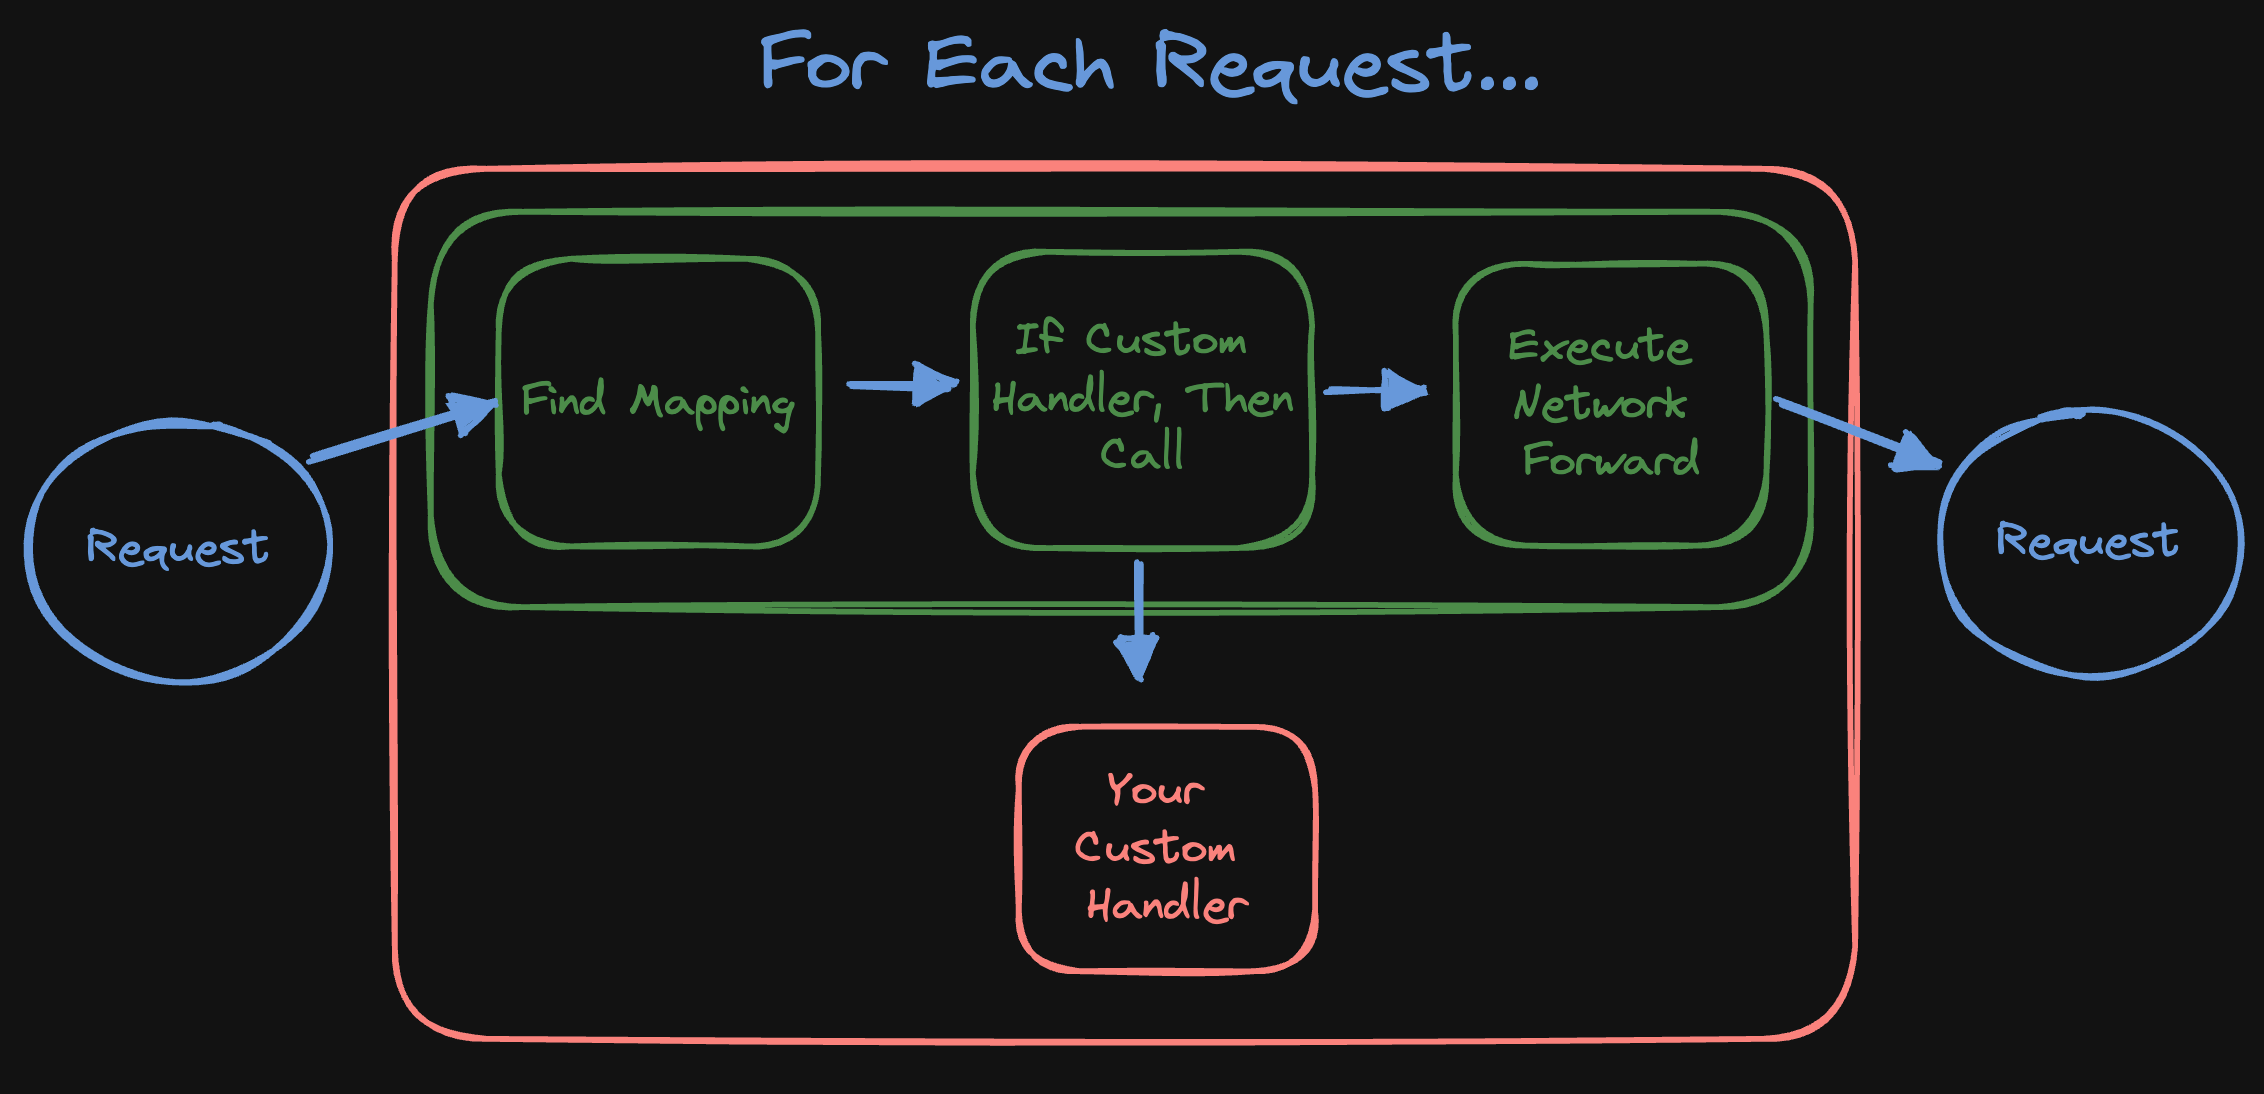
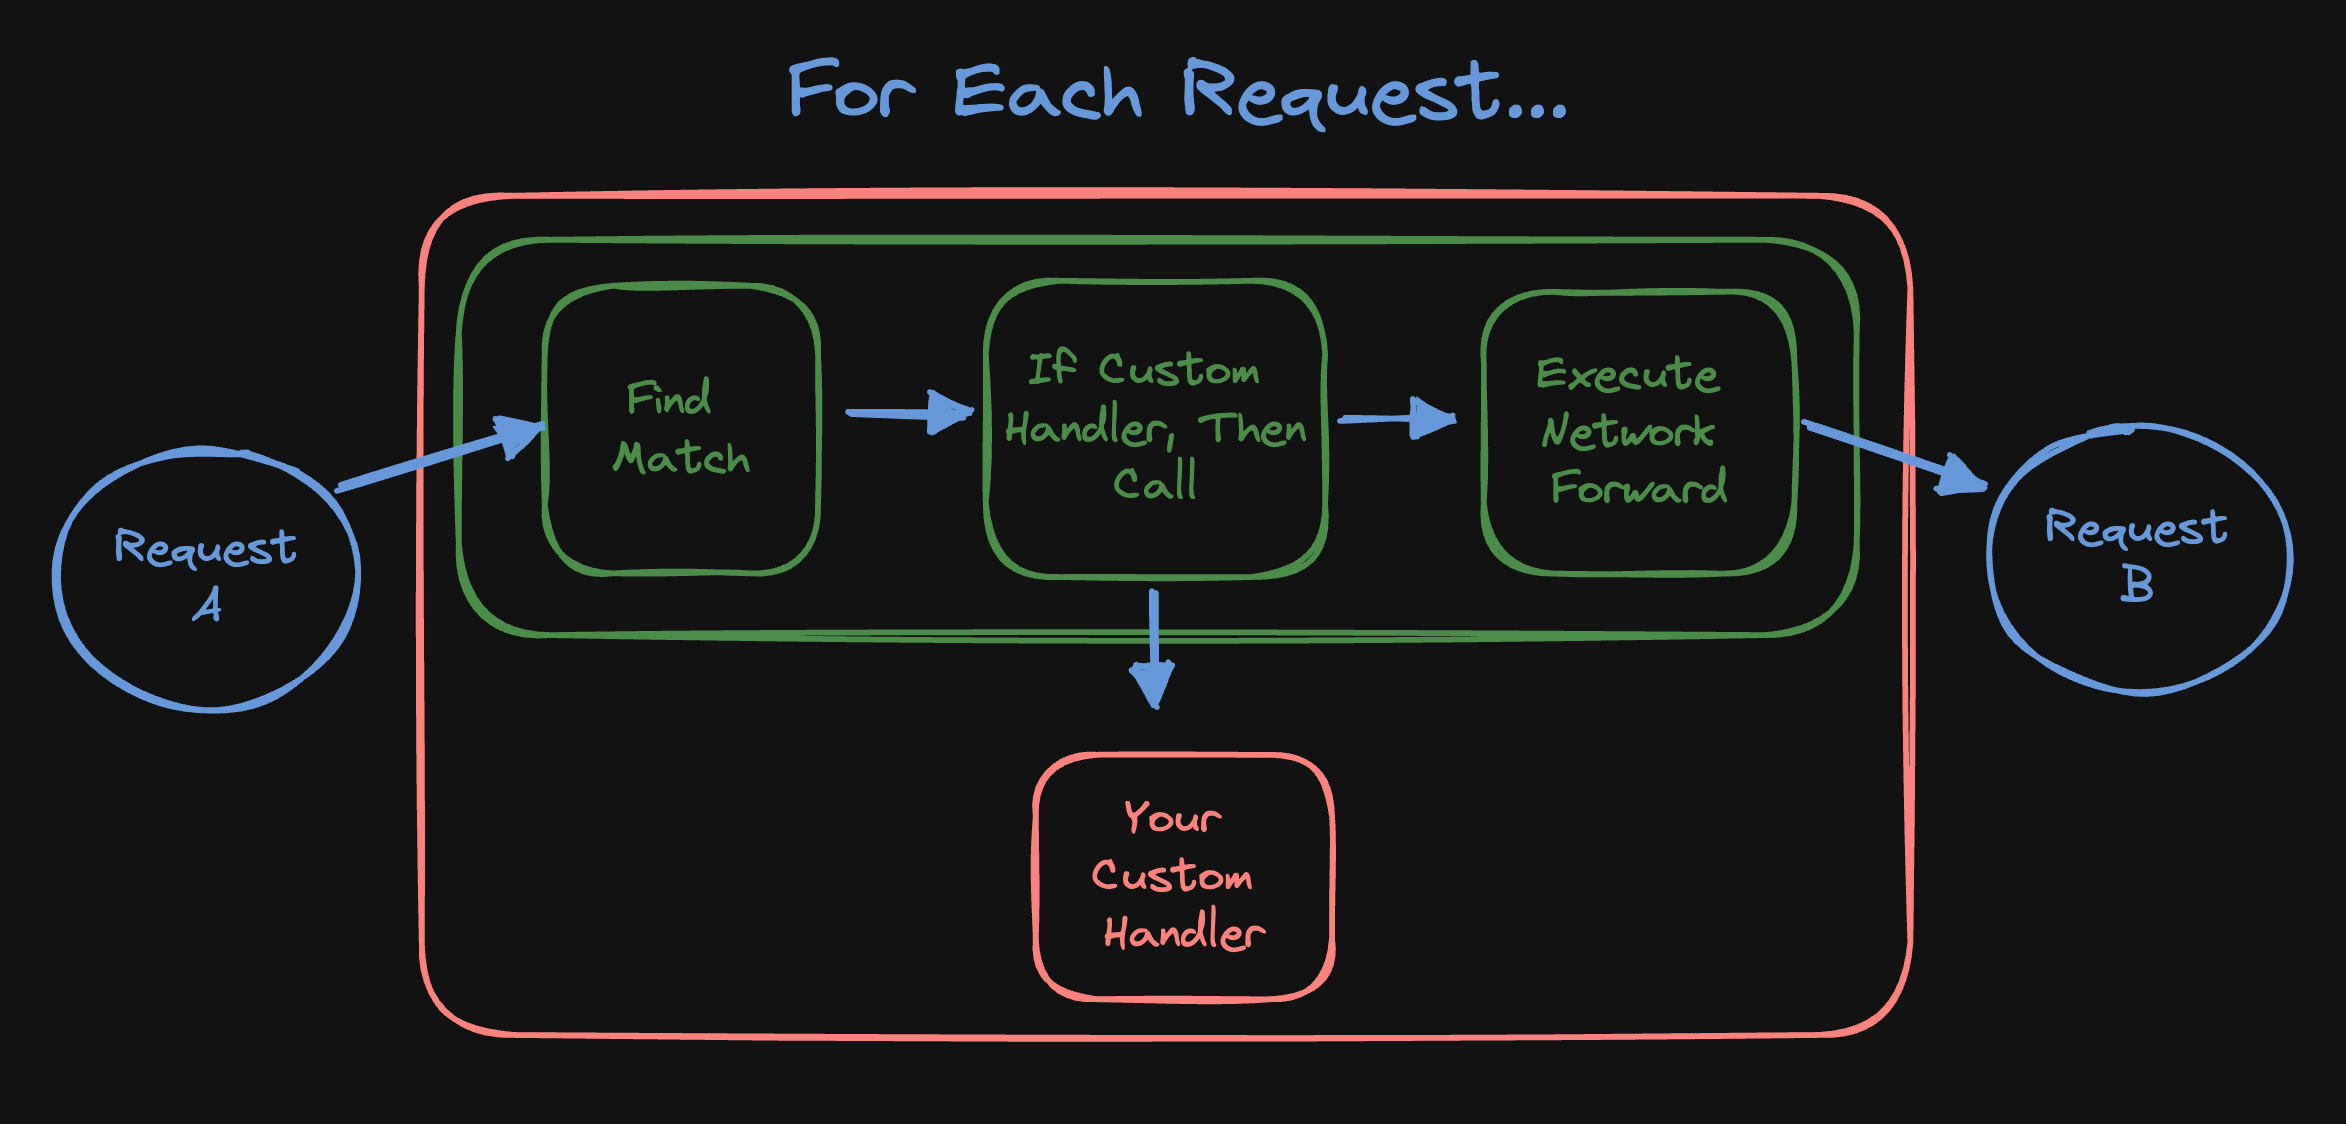
README design things

Changed region(s): [[0.0, 0.0311, 1.0, 0.9634]]

diff --git a/README.md b/README.md
@@ -8,7 +8,7 @@ Making DWN integrations with traditional backend services easy.
 
 ![Intro diagram](./images/intro-diagram.png)
 
-TODO: Merely source-destination mapping (based on message contents) and subsequent network execution. Optional custom callback for each mapping (useful for auth, or message augmentation).
+TODO: Merely source-destination mapping (based on message contents) and subsequent network execution. Optional custom callback for each match (useful for auth, or message augmentation).
 
 # Usage
 
@@ -19,163 +19,31 @@ npm install @tbd54566975/dwn-proxy-js
 ```
 
 ```typescript
-import {} from "dwn-proxy-js"
+import { Server, Matches } from "dwn-proxy-js"
 
-// configure single-tenant DID owner-operator
-// define handler(s)
-// start server
+const matches = new Matches('/path/to/matches.json')
+Server.start(matches)
 ```
 
 ![Process diagram](./images/process-diagram.png)
 
-## Mappings
+## Matching
 
 ...
-
-## Optional Custom Handler
-
-...
-
-## (Optional) Configuration Handlers
-
-This package offers an interface, `DwnProxyConfiguration`, which is intended to streamline the intended processing & handling of requests.
-
-```typescript
-import {} from "dwn-proxy-js"
-
-// read config files, using imported code
-// pass config handler when starting server
-```
-
-## Inbound 
-
-```mermaid
-sequenceDiagram
-  autonumber
-  participant U as DWN User
-  participant P as DWN Proxy
-  participant S as Your Service
-  
-  U->>P: DWeb Message
-  P->>P: Process
-  P->>P: Your handler
-  P->>S: Invoke your API
-  S->>S: Handle
-  S->>P: Response
-  P->>P: DWM'ify Response
-  P->>U: DWM'ified response
-```
-
-## Outbound 
-
-```mermaid
-sequenceDiagram
-  autonumber
-  participant U as DWN User
-  participant P as DWN Proxy
-  participant S as Your Service
-  
-  S->>P: Your message
-  P->>P: Your handler
-  P->>P: Process
-  P->>U: Send DWM
-```
-
----
----
-
-## Process
-
-- Message validation
-- DWM authorization
-- other things???
 
 ## TODO design considerations
 
 Two separate HTTP servers, with distinct port-bindings, one for inbound and the other for outbound. Therefore, network security topology can be configured distinctly. TODO is this truly necessary???
 
-For inbound, `Process` occurs first then `Your handler` second. Four outbound, the inverse, `Your handler` occurs first then `Process` second.
-
-Sequence diagram?
-
-Single-tenant DID owner-operator. Meaning, inbound authorization is performed. 
+Single-tenant DID owner-operator. Meaning, inbound authorization is performed. ??? I don't think so
 
 Should we be transport-agnostic? Which is to say, the `Your handler` would/could define the forward mechanism?
 
-```mermaid
-sequenceDiagram
-  autonumber
-  participant C as Client
-  participant R as DWN Relay
-  participant S as Downstream Service
-  
-  C->>R: DWeb Message
-  R->>R: Integrity Checks
-  R->>R: Lookup registered handlers
-  R->>S: POST /${registered-handler}
-  S->>S: Handle Request
-  S->>R: HTTP Response
-  R->>R: DWM'ify Response
-  R->>C: DWMified response
-```
-
 OpenAPI docs for the outbound API calls?
-
-Starting to think inbound & outbound should be discrete processes... or maybe actually the library shouldn't be that prescriptive. If the developer wanted separate processes, then they could host two different instances.
-
-Motivations: developer-friendly but also security cognizant
 
 ---
 
 TODO: take more things from https://github.com/TBD54566975/dwn-relay/blob/main/docs/design-doc.md
-
-# dwn-proxy-js Message (DPM)
-
-TODO... these are requests on the right-hand-side
-
-```json
-{
-  // what's the structure here?
-}
-```
-
-# Usage
-
-You can use `dwn-proxy-js` as a either a package or an executable. As a package, you have full NodeJS programmatic optionality for your custom handlers. As an executable, you must follow the [constrained JSON schema](#configuration-schema) for defining your handlers.
-
-## As A Package
-
-```cli
-npm install @tbd54566975/dwn-proxy-js@0.0.1
-```
-
-```typescript
-import {} from "dwn-proxy-js"
-
-// start server
-// define handler(s)
-```
-
-## As An Executable
-
-```json
-// contents of `config.json`
-[
-  {
-    // filter & mapping
-  }
-]
-```
-
-```cli
-npx @tbd54566975/dwn-proxy-js@0.0.1 --config ./config.json
-```
-
-### Configuration Schema
-
-```json
-{}
-```
 
 ## Project Resources
 
